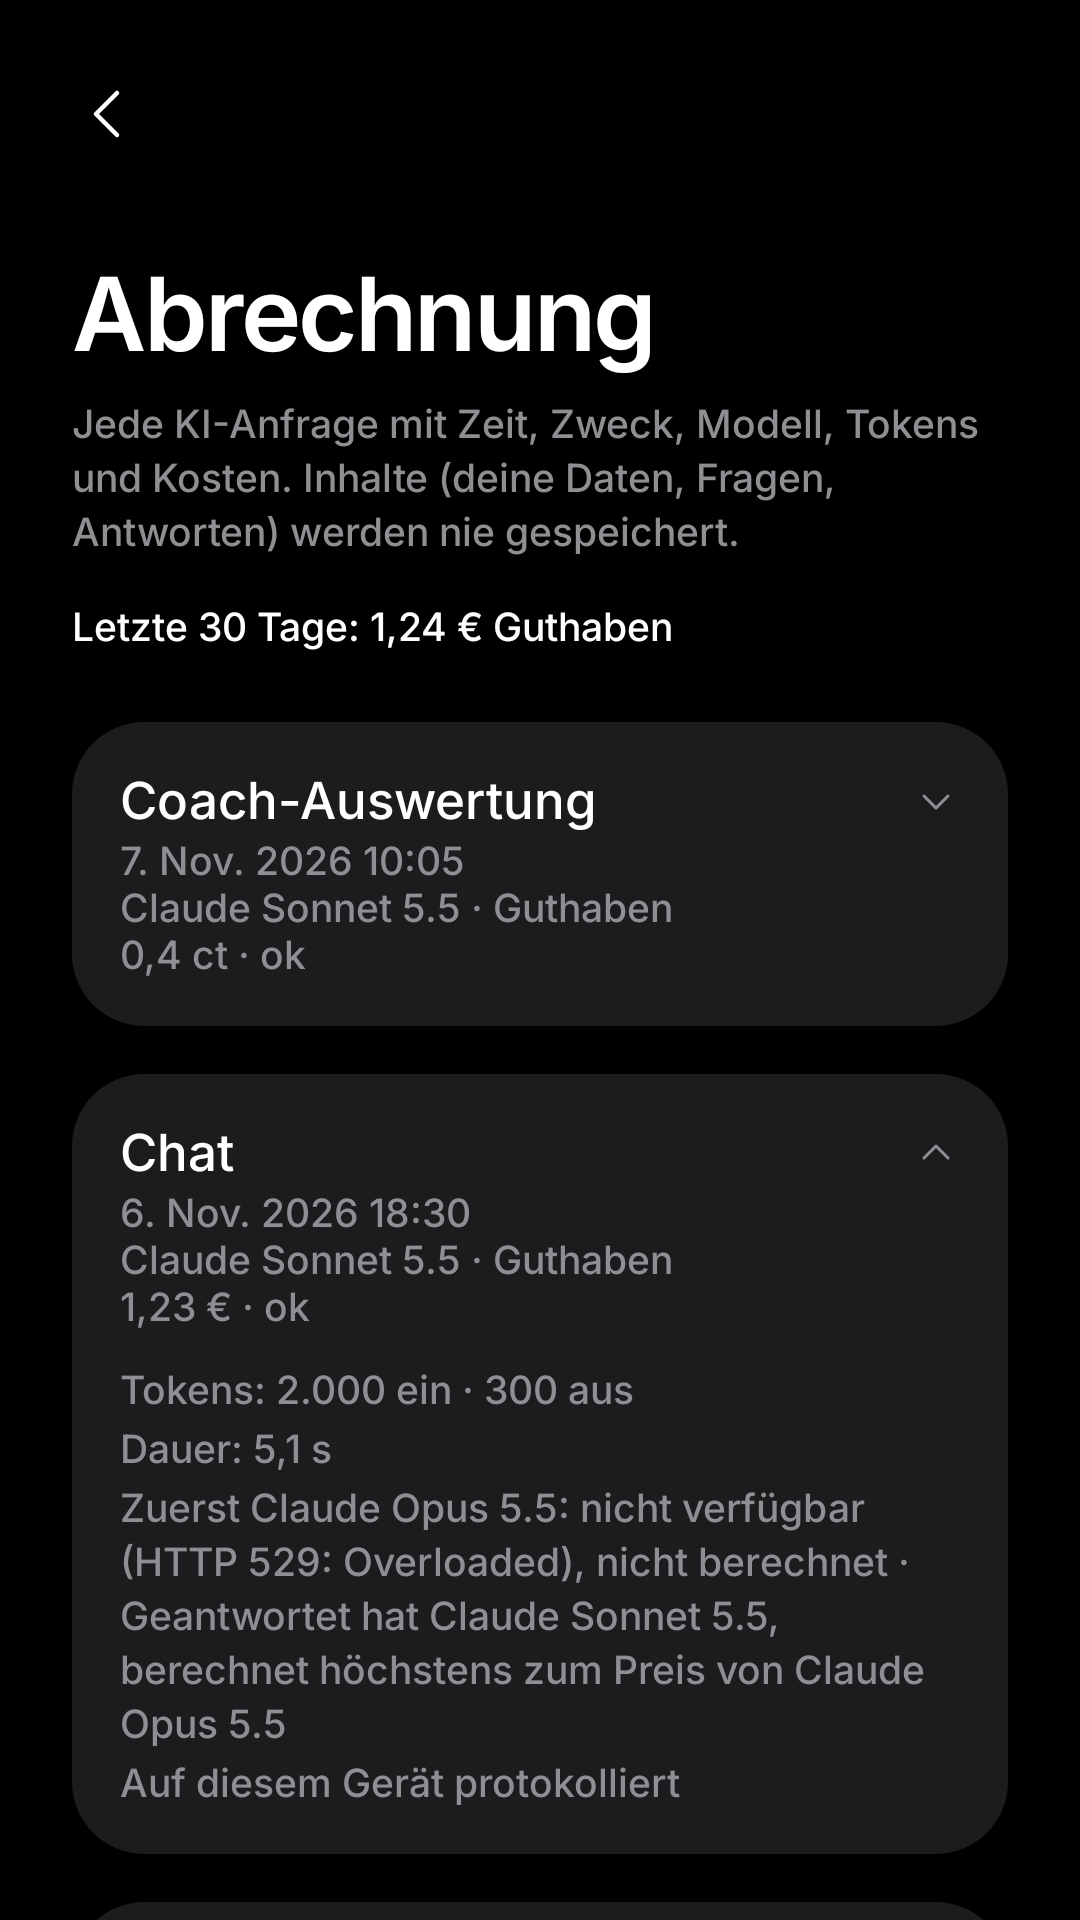
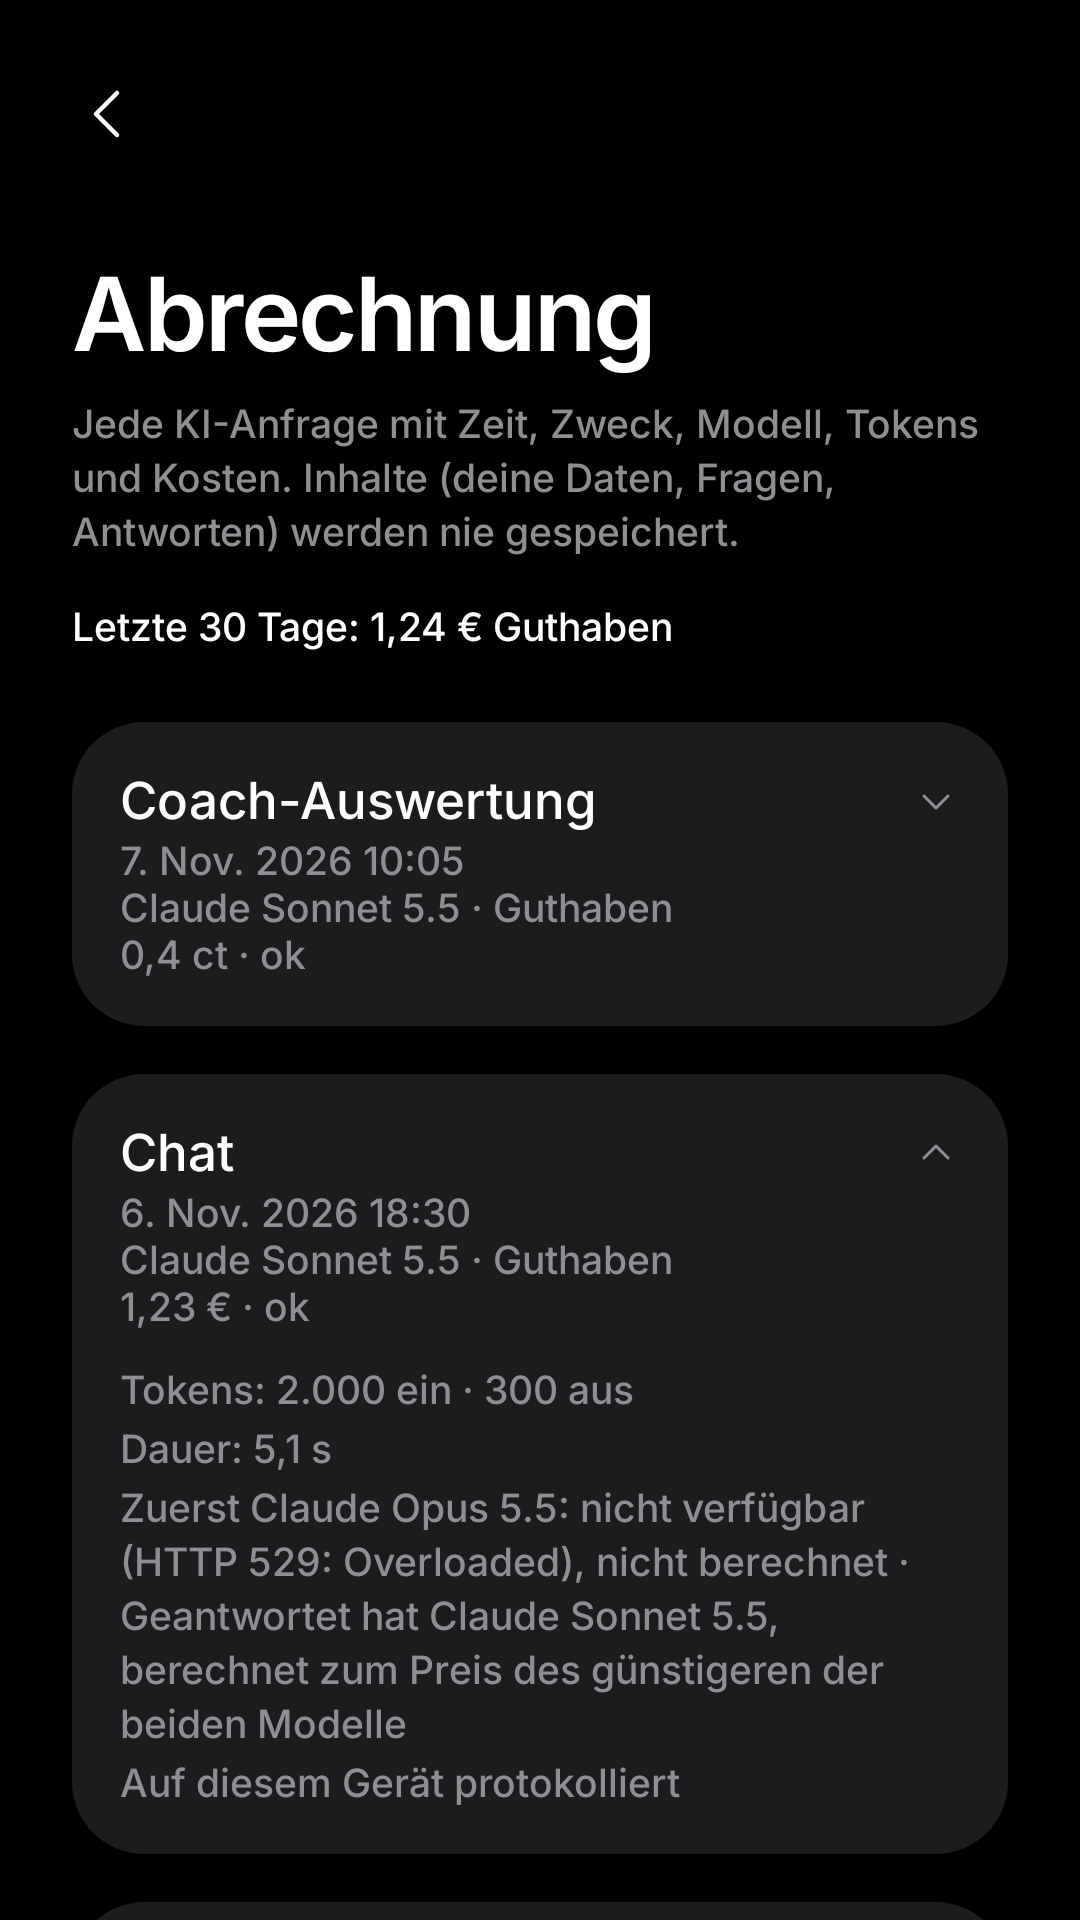
Gegencheck: Ausfallgrund ohne Anbieter-Fehlertext, klarer Ausweich-Text, Doku
Claude-Session: https://claude.ai/code/session_01PBv5TpUBcgFDpT3LFX2oaP

Changed region(s): [[0.1222, 0.8438, 0.5806, 0.9062], [0.6111, 0.8438, 0.8556, 0.875]]

diff --git a/backend/src/messages.ts b/backend/src/messages.ts
@@ -109,7 +109,7 @@ export async function handleMessages(env: Env, cfg: Config, device: Device, body
     const code = !(e instanceof UpstreamError) ? 'internal_error' : e.timeout || e.status === 0 || e.unavailable ? 'upstream_unavailable' : 'upstream_rejected';
     const requestId = await logRequest(env, {
       ...log, durationMs: Date.now() - t0, status: 'failed', errorCode: code,
-      fallbackFromStatus: firstFailure?.status ?? null, fallbackReason: firstFailure?.message ?? (e instanceof Error ? e.message : null),
+      fallbackFromStatus: firstFailure?.status ?? null, fallbackReason: failureLabel(firstFailure),
     });
     if (!(e instanceof UpstreamError)) throw e;
     if (e.timeout || e.status === 0) {
@@ -145,15 +145,26 @@ export async function handleMessages(env: Env, cfg: Config, device: Device, body
   const charged = await settle(env, device.accountId, holdId, hold, cost, entry);
   const requestId = await logRequest(env, {
     ...log, durationMs: Date.now() - t0, status: 'ok', model: servedModel,
-    fallbackFromStatus: firstFailure?.status ?? null, fallbackReason: firstFailure?.message ?? null,
+    fallbackFromStatus: firstFailure?.status ?? null, fallbackReason: failureLabel(firstFailure),
     input: entry.input, cacheRead: entry.cacheRead, cacheWrite: entry.cacheWrite, output: entry.output, chargedMicro: charged,
   });
   const balance = await availableMicro(env, device.accountId);
   return Response.json(
     {
       ...result.body,
-      overfit: { costMicro: charged, balanceMicro: balance, currency: 'EUR', tier, servedTier: served, model: servedModel, modelName: TIERS[served].displayName, vendor: TIERS[served].vendor, requestedModel: TIERS[tier].model, requestedModelName: TIERS[tier].displayName, requestedVendor: TIERS[tier].vendor, fallback: served !== tier, fallbackReason: firstFailure ? `HTTP ${firstFailure.status}: ${firstFailure.message}`.slice(0, 200) : null, purpose, requestId },
+      overfit: { costMicro: charged, balanceMicro: balance, currency: 'EUR', tier, servedTier: served, model: servedModel, modelName: TIERS[served].displayName, vendor: TIERS[served].vendor, requestedModel: TIERS[tier].model, requestedModelName: TIERS[tier].displayName, requestedVendor: TIERS[tier].vendor, fallback: served !== tier, fallbackReason: failureLabel(firstFailure), purpose, requestId },
     },
     { headers: { 'x-overfit-cost-micro': String(charged), 'x-overfit-balance-micro': String(balance) } },
   );
+}
+
+/**
+ * Kurzer, inhaltsfreier Grund, warum das zuerst versuchte Modell nicht antwortete. Bewusst ohne den Fehlertext des Anbieters:
+ * der könnte Teile der Anfrage wiederholen, und das Protokoll speichert nie Inhalte.
+ */
+function failureLabel(e: UpstreamError | null): string | null {
+  if (!e) return null;
+  if (e.timeout) return 'Zeitüberschreitung';
+  if (e.status === 0) return 'nicht erreichbar';
+  return `HTTP ${e.status}`;
 }

diff --git a/backend/test/requests.test.ts b/backend/test/requests.test.ts
@@ -99,22 +99,29 @@ describe('Anfrage-Protokoll GET /v1/account/requests', () => {
     await fund(c);
     const r = await c.call('POST', '/v1/messages', req('pro', 'plan'));
     expect(r.status).toBe(200);
-    expect(r.body.overfit).toMatchObject({ fallback: true, fallbackReason: 'HTTP 529: Overloaded', purpose: 'plan' });
+    expect(r.body.overfit).toMatchObject({ fallback: true, fallbackReason: 'HTTP 529', purpose: 'plan' });
     const [e] = (await log(c)).entries;
     expect(e).toMatchObject({
       id: r.body.overfit.requestId, status: 'ok', tier: 'pro', requestedModel: OPUS, model: SONNET, fallback: true,
-      fallbackFromStatus: 529, fallbackReason: 'Overloaded', chargedMicro: at('standard'), purpose: 'plan',
+      fallbackFromStatus: 529, fallbackReason: 'HTTP 529', chargedMicro: at('standard'), purpose: 'plan',
     });
   });
 
-  it('langer Ausfallgrund wird auf 200 Zeichen gekürzt', async () => {
+  it('Ausfallgrund ohne Fehlertext des Anbieters (der könnte Teile der Anfrage wiederholen)', async () => {
     anthropic.mockImplementation(async (_u: string, init: any) =>
-      sentModel(init) === HAIKU ? Response.json({ error: { message: 'x'.repeat(500) } }, { status: 503 }) : reply(sentModel(init)),
+      sentModel(init) === HAIKU ? Response.json({ error: { message: `Bad input: ${SECRET_PROMPT}` } }, { status: 503 }) : reply(sentModel(init)),
     );
     const c = await Client.create();
     await fund(c);
+    const r = await c.call('POST', '/v1/messages', req('lite'));
+    expect(r.body.overfit.fallbackReason).toBe('HTTP 503');
+    expect((await log(c)).entries[0].fallbackReason).toBe('HTTP 503');
+    // Fehlschlag ohne Ausweichen: kein Grund gespeichert, nur der Fehlercode.
+    anthropic.mockImplementation(async () => Response.json({ error: { message: `rejected: ${SECRET_PROMPT}` } }, { status: 400 }));
     await c.call('POST', '/v1/messages', req('lite'));
-    expect((await log(c)).entries[0].fallbackReason).toHaveLength(200);
+    expect((await log(c)).entries[0]).toMatchObject({ errorCode: 'upstream_rejected', fallbackReason: null });
+    const raw = JSON.stringify((await c.env.DB.prepare('SELECT * FROM requests').all()).results);
+    expect(raw).not.toContain(SECRET_PROMPT);
   });
 
   it('Fehlschlag: status failed, errorCode, kein Modell, nichts abgebucht; requestId in details', async () => {

diff --git a/shared/src/commonMain/kotlin/app/overfit/i18n/RequestLogStrings.kt b/shared/src/commonMain/kotlin/app/overfit/i18n/RequestLogStrings.kt
@@ -47,7 +47,7 @@ class RequestLogStrings(
     val tokens: (input: String, output: String) -> String,
     val cache: (read: String, write: String) -> String,
     val duration: (seconds: String) -> String,
-    /** Fallback: first model did not answer (free), a replacement answered, charged at most the first model's price. */
+    /** Fallback: first model did not answer (free), a replacement answered, charged at the cheaper of the two prices. */
     val fallback: (requested: String, reason: String?, served: String) -> String,
     val sourceDevice: String,
     val sourceServer: (id: Long) -> String,
@@ -94,7 +94,7 @@ val GermanRequestLog = RequestLogStrings(
     duration = { "Dauer: $it s" },
     fallback = { requested, reason, served ->
         "Zuerst $requested: nicht verfügbar${reason?.let { " ($it)" } ?: ""}, nicht berechnet · " +
-            "Geantwortet hat $served, berechnet höchstens zum Preis von $requested"
+            "Geantwortet hat $served, berechnet zum Preis des günstigeren der beiden Modelle"
     },
     sourceDevice = "Auf diesem Gerät protokolliert",
     sourceServer = { "Server-Protokoll Nr. $it" },
@@ -140,7 +140,7 @@ val EnglishRequestLog = RequestLogStrings(
     duration = { "Duration: $it s" },
     fallback = { requested, reason, served ->
         "First $requested: not available${reason?.let { " ($it)" } ?: ""}, not charged · " +
-            "$served answered, charged at most the price of $requested"
+            "$served answered, charged at the price of the cheaper of the two models"
     },
     sourceDevice = "Logged on this device",
     sourceServer = { "Server log no. $it" },

diff --git a/app/src/test/java/app/overfit/ui/RequestLogTest.kt b/app/src/test/java/app/overfit/ui/RequestLogTest.kt
@@ -171,7 +171,7 @@ class RequestLogTest {
         compose.onNodeWithTag("request:r2").performScrollTo().performClick()
         waitFor(
             "Zuerst Claude Opus 5.5: nicht verfügbar (HTTP 529: Overloaded), nicht berechnet · " +
-                "Geantwortet hat Claude Sonnet 5.5, berechnet höchstens zum Preis von Claude Opus 5.5",
+                "Geantwortet hat Claude Sonnet 5.5, berechnet zum Preis des günstigeren der beiden Modelle",
         )
         assertTrue(shown("Tokens: 2.000 ein · 300 aus"))
         assertTrue(shown("Dauer: 5,1 s"))

diff --git a/backend/test/transparency.test.ts b/backend/test/transparency.test.ts
@@ -60,7 +60,7 @@ describe('Antwort nennt das tatsächlich antwortende Modell', () => {
     const price = currentPrices()['claude-sonnet-5-5'];
     expect(r.body.overfit).toMatchObject({
       fallback: true,
-      fallbackReason: 'HTTP 503: down',
+      fallbackReason: 'HTTP 503',
       model: 'claude-sonnet-5-5',
       modelName: 'Claude Sonnet 5.5',
       vendor: 'Anthropic',

diff --git a/docs/DECISIONS.md b/docs/DECISIONS.md
@@ -1358,3 +1358,9 @@ Heckmeck. Entferne das mal komplett aus der App. Da soll nichts mehr zu finden s
 - Ursache Ruckeln: Story-Route ist kein Tab, die Tab-Leiste kam erst nach dem Fade zurück. `ScreenMotion`: Wechsel Story → Tab ist instant (keine Animation), Leiste und Coach-Seite im selben Frame.
 - Ursache Story fehlte: `resetAll()` (Alle Daten löschen) ließ `overfit.coachStorySeen` stehen. Jetzt entfernt, Story kommt beim nächsten ersten Coach-Besuch wieder.
 - Nachtrag: Tab- und Mini-Workout-Leiste bleiben versteckt, solange die Story noch in `visibleEntries` ist (ca. 3 Frames nach dem Schließen), damit sie nicht zuerst unter der Story auftauchen.
+- **Gegencheck (Sonnet, effort high) zu PR #91:** behoben: Protokoll und Antwort speichern als Ausfallgrund nur noch „HTTP 529“ /
+  „Zeitüberschreitung“, nie den Fehlertext des Anbieters (könnte Teile der Anfrage wiederholen; Test mit geheimem Prompt);
+  Ausweich-Text „berechnet zum Preis des günstigeren der beiden Modelle“; README-Rest. Bewusst so gelassen: alte App-Versionen mit
+  gespeichertem `pro` bekommen jetzt Opus (abgerechnet wird, was angezeigt wird; die einzige installierte App ist Fabians, die per
+  Update migriert). Migration 0009 macht auch schon abgelaufene Restposten alter Testkonten wieder nutzbar (gewollt: „Guthaben läuft nie
+  ab“). Haiku über 100 000 Eingabe-Token (0,50 $/2,50 $) kommt bei Overfit nicht vor.

diff --git a/backend/README.md b/backend/README.md
@@ -250,7 +250,7 @@ Modellnamen samt Anbieter; `GET /v1/config` liefert dafür `displayName`, `vendo
 
 | Stufe | Anbieter, Modell | Bilder | Ausweichen bei Ausfall | Listenpreis je MTok (ein / aus) |
 |---|---|---|---|---|
-| `lite` | Anthropic `claude-haiku-5-5` (kurze Anfragen: „Mit KI ausfüllen“, geschenkte Auswertungen) | ja | → `standard` | 0,10 $ / 0,50 $ |
+| `lite` | Anthropic `claude-haiku-5-5` (kurze Anfragen, z. B. „Mit KI ausfüllen“) | ja | → `standard` | 0,10 $ / 0,50 $ |
 | `standard` (Voreinstellung) | Anthropic `claude-sonnet-5-5` (Coach-Auswertung, Chat) | ja | → `lite` | 2 $ / 10 $ |
 | `pro` | Anthropic `claude-opus-5-5` | ja | → `standard` | 4 $ / 20 $ |
 
